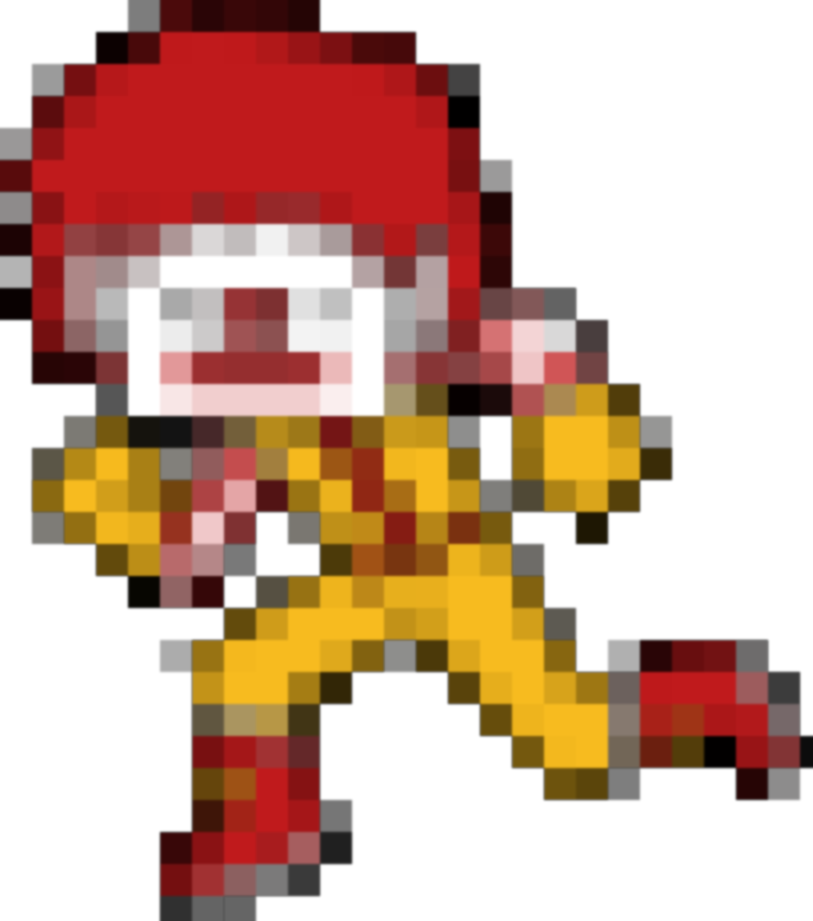
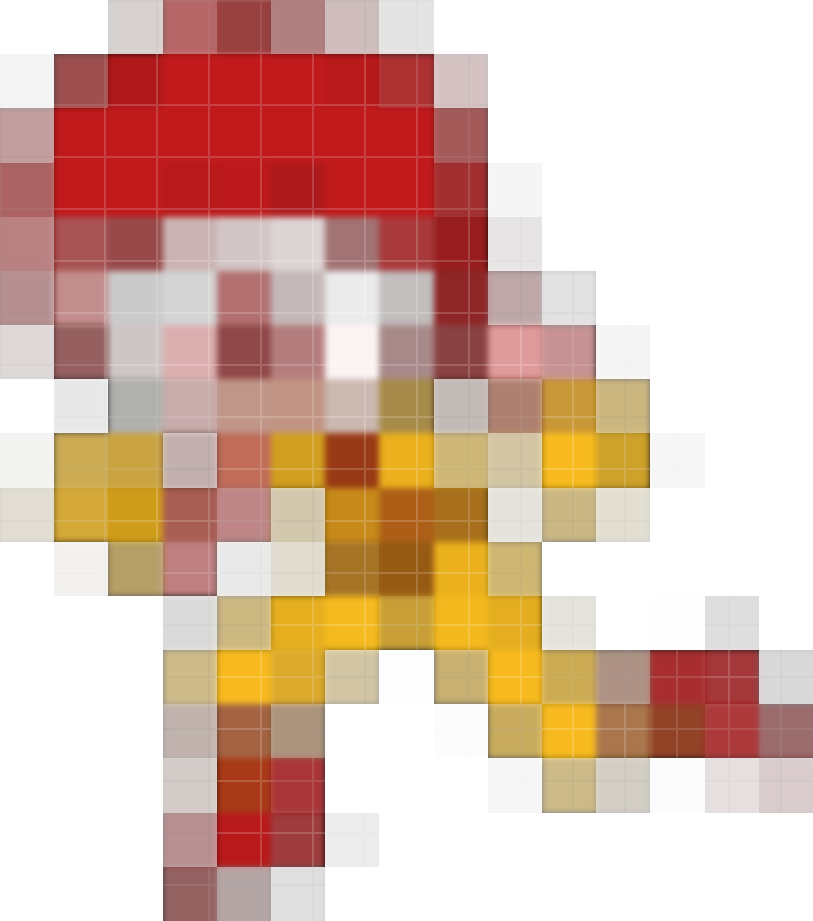
feat(heroes): strengthen mosaic block size to 52x with designer frosted glass tile grid on all 5 pioneer hero artworks

diff --git a/README.md b/README.md
@@ -1,112 +1,135 @@
-# BCM 🛵 (BottleCap Motorcycle) · 原创机车艺术
+# BCM 🛵 (BottleCap Motorcycle) · d8d-BCM-SourceAvailable
 
 > **D&D Studio (广州 D&D 团队) 独立出品 · 准商业级数字艺术与文化 IP 项目**  
 > **© 2023–2026 D&D Team. All Rights Reserved. 版权所有·侵权必究**
 
-[![License: Proprietary](https://img.shields.io/badge/License-Proprietary%20%2F%20All%20Rights%20Reserved-red.svg)](https://github.com/EthanLau1/d8d-BCM-SourceAvailable)
+[![License: Source-Available](https://img.shields.io/badge/License-Source--Available%20%2F%20Non--Commercial-orange.svg)](https://github.com/EthanLau1/d8d-BCM-SourceAvailable)
 [![Status: Pre-Commercial Preview](https://img.shields.io/badge/Status-Pre--Commercial%20Preview-blue.svg)](https://github.com/EthanLau1/d8d-BCM-SourceAvailable)
 [![Art Assets: 101 Original Frames](https://img.shields.io/badge/Art-101%20Original%20Frames-brightgreen.svg)](https://github.com/EthanLau1/d8d-BCM-SourceAvailable)
 [![Digital Collection: 7,700 Pieces](https://img.shields.io/badge/Supply-7%2C700%20Unique%20Pieces-orange.svg)](https://github.com/EthanLau1/d8d-BCM-SourceAvailable)
 [![Release Model: 24h Continuous](https://img.shields.io/badge/Mechanism-24h%20Continuous%20Release-purple.svg)](https://github.com/EthanLau1/d8d-BCM-SourceAvailable)
+[![i18n: British English & 中文](https://img.shields.io/badge/i18n-British%20English%20%7C%20%E7%AE%80%E4%BD%93%E4%B8%AD%E6%96%87-yellow.svg)](https://github.com/EthanLau1/d8d-BCM-SourceAvailable)
 
 ---
 
-## ⚖ 严正版权与准商业项目声明 (Intellectual Property & Commercial Notice)
+## 📖 源码可用性协议说明 (Source-Available License & Terms)
 
-### 1. 准商业项目性质 (Pre-Commercial Status)
-本仓库及展示工程为 **D&D 团队（D&D Team）** 研发与筹划中的**准商业级数字文化 IP 项目公开演示版**。所展示之前端交互、艺术资产结构、稀有度矩阵、技术架构设计等均为阶段性商业演示成果。
+本项目采用 **Source-Available（源码可用 / 源码开放检视）** 模式进行公开展示，**非无限制宽松开源（Non-Permissive Open Source）**。请在查阅、克隆或使用本仓库内容前严格遵守以下授权条款：
 
-### 2. 知识产权与版权独占声明 (Proprietary Rights)
-* **101 个原创车架结构与视觉原稿**：车架轮廓、机械结构、引擎装配、龙头握把、减震悬挂及排气系统，均为 D&D 团队倾力原创设计、制图与数字化绘制的**独家原创美术作品与工业美学资产**。
-* **版权独家归属**：所有车架美术著作权、设计专利及衍生商业权益 **100% 归属 D&D 团队所有**。
-* **严禁侵权**：未经 D&D 团队书面正式授权，任何个人或实体**严禁擅自复制、商业化发行、铸造非官方数字藏品/NFT、二次衍生修改、公开募资，或将本仓库图像资产输入任何商业 AI 模型作为训练集**。
+### 1. 什么是 Source-Available？
+* **公开检视与透明性（Public Transparency）**：本仓库公开所有前端交互逻辑、视觉版式架构、多语言字典以及离屏合成工程，旨在向合作方、策展机构、投资者及 Web3 社区证明项目的原创性与工程完成度；
+* **本地试玩与学术研究允许（Local Trial & Research Allowed）**：允许任何个人克隆本仓库到本地环境运行、查阅、体验交互式改装台及评估项目设计；
+* **严禁未经授权的商业化（Non-Commercial Without Prior Written Consent）**：严禁任何个人或第三方机构在未获 D&D 团队书面授权的情况下，复制本系统用于任何商业营利运营、同质竞争项目包装、二次转售或公开募资。
 
-### 3. 双轨权利划分原则 (Dual-Licensing Boundary)
-为了确保商业合规并推动全球社区文化共创，本项目对作品构成实施严格的双轨权利划分：
-1. **原创车架（版权所有 · All Rights Reserved）**：机车机械骨架，受国际版权法及《中华人民共和国著作权法》严格保护；
-2. **瓶盖元素（CC0 开放 · Public Domain Dedication）**：取自现实中回收饮料瓶盖与罐装符号。D&D 团队主动以 **CC0（放弃派生专有权）** 形式处理，旨在**彻底隔离外部品牌的商业代言误解**，并鼓励全球机车爱好者基于此进行合规二创。
+### 2. 三层权利边界划分 (Three-Tier Rights Framework)
+
+```text
+┌────────────────────────────────────────────────────────────────────────┐
+│                   BCM 权利架构体系 (Three-Tier Architecture)             │
+├────────────────────────────────────────────────────────────────────────┤
+│ 1. 独创机械骨架 (Chassis & Mechanics)                                  │
+│    ▶ 归属：D&D Studio 100% 原创独占 (All Rights Reserved)               │
+│    ▶ 涵盖：101 款原创车架、双管梁结构、避震悬挂、发动机与整车工程美学        │
+│    ▶ 保护：受国际版权法保护，严禁未经授权盗用或用于商业 AI 模型训练       │
+├────────────────────────────────────────────────────────────────────────┤
+│ 2. 7,700 链上机车 NFT 整体 (On-Chain NFTs)                             │
+│    ▶ 协议：CC0 1.0 Universal (Public Domain Dedication)                │
+│    ▶ 规则：官方合约正式部署并释出后，全量 7,700 部作品放弃派生版权主张，   │
+│            社区享有自由商用、改装、衍生品制作与二次创作权利             │
+├────────────────────────────────────────────────────────────────────────┤
+│ 3. 瓶盖与波普艺术拼贴元素 (Discarded BottleCaps)                       │
+│    ▶ 性质：环保艺术致敬与波普废品解构 (Pop Art Fair-Dealing)            │
+│    ▶ 说明：瓶盖商标徽标归属原饮料品牌方所有，BCM 严格声明非商业代言与非赞助│
+└────────────────────────────────────────────────────────────────────────┘
+```
+
+### 3. 未发售期保密工程防泄密机制 (Confidential Silhouette Protection)
+为确保正式发售前 **7,700 款完整链上资产的稀缺性、惊喜感及防批量枚举盗用**：
+* 本仓库展示的 101 款机车、6 款车库试配车身以及 120 位环保英雄公仔，均经过**专属实体大颗粒像素马赛克（Solid Block-based Frosted Mosaic）**保密工艺处理；
+* 前端页面与海报导出仅提供体量与色彩姿态预览，原始高精度图纸与高清未打码艺术原件由团队内部离线冷存储保存。
 
 ---
 
-## 🛵 项目全景与艺术主张 (Project Overview & Narrative)
+## 🛵 项目全景与艺术主张 (Project Narrative)
 
-### 1. 源起：垃圾场的震撼与两位年轻人的环保执念
-青年设计师 Jay 在参观垃圾处理场时，目睹堆积如山被随意丢弃的塑料瓶盖——那些来自每一个人日常消费的废品静静等待被填埋或焚烧。他思考：“如果这些瓶盖能被重新利用，变成帅气酷炫的艺术品呢？”
-随后，他遇到了拥有丰富科技产品管理经验的资深产品人 Ethan。两人一拍即合：“把环保和电单车原创设计结合在一起，做真正有意义的产品。”团队主导创作了 101 部风格迥异的原创电单车车身，并首创将 109 款回收瓶盖化为机车的轮子，赋予每一部车独一无二的生命。
+### 1. 源起：垃圾场的震撼与环保执念
+青年设计师 Jay 在参观大型废弃物处理场时，目睹堆积如山被随意丢弃的塑料瓶盖——那些来自每一个人日常消费的废品静静等待被填埋或焚烧。他思考：“如果这些瓶盖能被重新利用，变成帅气酷炫的机车艺术品呢？”  
+随后，他遇到了拥有丰富科技管理经验的产品人 Ethan。两人一拍即合：**“把环保和电单车原创设计结合在一起，做真正有意义的文化产品。”** 团队倾力主导创作了 101 部风格迥异的原创电单车身，并首创将 109 款回收瓶盖化为机车的轮子，赋予废弃物第二重生命。
 
 ### 2. 数字升华：101 原创车架 × 回收瓶盖 = 7,700 独特藏品
 团队将 101 个原创车架进行高精度数字图层解构，配以现实回收饮料罐/瓶盖元素，通过美学矩阵与平衡算法，组合出 **7,700 辆独一无二的数字机车**。
 
-### 3. 载具与英雄：从实体手作黏土到链上数字像素
-机车是载具，HERO 属于社区。在实体工坊中，孩子们围坐桌前用彩色黏土捏出的各种生动机车骑手与环保英雄雏形，被团队进一步数字化提炼为拥有独特环保超能力的奔跑姿态先锋，形成即将启动的全新 CC0 链上先锋英雄系列。
+### 3. 载具与英雄：从实体工坊黏土到链上数字像素
+机车是载具，HERO 属于社区。在线下实体工坊中，孩子们在桌前用彩色黏土捏出的各种生动机车骑手与环保英雄雏形，被团队进一步提炼为拥有独特环保超能力的奔跑姿态先锋，形成即将同步启动的全新 CC0 链上先锋英雄系列。
 
 ---
 
 ## 💻 网页展示 Demo 与核心功能 (Interactive Web Demo)
 
-本项目在根目录下内置了一套**纯静态、免外部依赖、开箱即用**的交互式网页展示系统，可供合作方、评审专家及投资人直接体验。
+本项目在根目录下内置了一套**纯静态、免外部依赖、零框架捆绑、开箱即用**的交互式网页展示系统。
 
 ### 🚀 极简运行指引 (Quickstart)
 
-#### 方式一：直接双击 (无需环境)
-* 直接双击根目录下的 **`index.html`**，即可在任意浏览器中完整呈现全部版块与动画。
+#### 方式一：直接双击 (无需任何运行环境)
+* 直接双击根目录下的 **`index.html`**，即可在任意现代浏览器中完整呈现全部版块与动画。
 
-#### 方式二：一键启动本地服务器 (推荐最佳体验)
-* **macOS 用户**：双击运行 **`start_demo.command`**（自动启动轻量服务并唤起默认浏览器访问 `http://localhost:8888`）；
+#### 方式二：一键启动本地轻量服务 (推荐最佳体验)
+* **macOS 用户**：双击运行 **`start_demo.command`**（自动启动服务并唤起浏览器访问 `http://localhost:8888`）；
 * **Windows 用户**：双击运行 **`start_demo.bat`**；
 * **命令行开发者**：
   ```bash
-  cd BCM-Web-Demo
+  git clone https://github.com/EthanLau1/d8d-BCM-SourceAvailable.git
+  cd d8d-BCM-SourceAvailable
   python3 -m http.server 8888
-  # 打开浏览器访问: http://localhost:8888
+  # 浏览器访问: http://localhost:8888
   ```
 
 ---
 
-### ⭐ 核心功能模块全览 (Demo Flow)
+### ⭐ 核心功能模块全览 (Demo Architecture)
 
 ```text
-网页展示架构 (Demo Flow)
-├── 0. 首屏 (Hero)            : 24h 持续释出机制 / 101 车架 / 7,700 数字机车
-├── 1. 概念与初心 (Concept)    : 废品艺术重生 / 严格恪守 5R 零废弃 / 两代人原创执念
-├── 2. 数字藏品 (NFT Collection): 101 原创车架 (团队版权) + 瓶盖元素 (CC0) 双轨拆解
-│                               展示经典标杆车款：绝版酷儿 #0001、可口可乐 #1161、百事 #5227、七喜 #5765
-├── 3. 车库工坊 (Playground)   : 核心交互台（中立工程原型轮组 + 6 款精选车架实时换装与 HTML5 海报导出）
-├── 4. 每日一 mint (Daily Mint): 24h 智能合约上架机制 / 无门槛公开竞拍 / 金库资助实体工坊
+网页展示架构 (Interactive Demo Flow)
+├── 0. 首屏 (Hero)            : 24h 持续释出机制 / 101 原创车架 / 7,700 数字机车 / EN·中文 一键切换
+├── 1. 概念与初心 (Concept)    : 废品艺术重生 / 严格恪守 5R 零废弃理念 / 实体工坊纪实
+├── 2. 数字藏品 (NFT Collection): 101 原创车架 (团队独家版权) + 瓶盖元素 (CC0 开放) 双轨权利拆解
+│                               标杆车款展示：绝版酷儿 #0001、可口可乐 #1161、百事 #5227、七喜 #5765
+├── 3. 车库试玩 (Playground)   : 核心交互台（中立工程原型轮组 + 6 款精选车架大颗粒马赛克换装与 HTML5 海报导出）
+├── 4. 每日一 mint (Daily Mint): 24h 智能合约上架机制 / 无门槛公开竞拍 / 收益全量资助实体环保工坊
 ├── 5. 社区创作 (Community)    : 
 │   ├── 🎮 BCM HERO 像素先锋 (即将登场 CC0 系列):
-│   │   ├── 📍 线下工坊实录：孩子们在工坊捏黏土、草图构思到数字跑者的真实共创原点
-│   │   ├── 🧬 实体手作到数字像素：从实体黏土形态提炼到奔跑动作规范的进化图谱
-│   │   └── 🏃 先锋 5 位环保英雄矩阵：黄金小丑(包装再造)、佩佩(Meme)、顽强小强、极地企鹅、吃豆先锋
+│   │   ├── 📍 线下工坊实录：孩子们捏黏土、草图构思到数字跑者的真实共创原点
+│   │   ├── 🧬 实体手作到数字像素：从工坊黏土提炼到奔跑动作规范的进化图谱 (hero_evolution)
+│   │   └── 🏃 首批 5 位环保英雄：黄金小丑(包装重构)、佩佩(Meme)、顽强小强、极地企鹅、吃豆先锋
 │   └── 📸 线下工坊与真实足迹 (Field Notes):
-│       └── 商超寻盖、#287 创意园真后视镜展陈、亚洲汽水老铝盖挂板、实体微缩模型打磨
-└── 6. 常见问答 (FAQ) & 邮件订阅: Web3 极简科普、Gas 费透明说明与商务联络
+│       └── 商超寻盖、#287 创意园真实后视镜展陈、亚洲汽水老铝盖挂板、实体微缩模型打磨
+├── 6. 全景总谱 (Master Spread) : 101 部原创机车（左）× 120 位环保英雄（右）超宽合并总谱大图
+└── 7. 常见问答 (FAQ) & 订阅    : Web3 极简科普、Gas 费透明说明与商务联络渠道
 ```
 
 ---
 
 ### 🎨 设计与工程亮点 (Design & Engineering Highlights)
 
-1. **Neo-Brutalism Zine 装帧美学**：
-   - 采用 2px 墨黑实线边框（`var(--ink)`）、4px/6px 纯黑实体投影、白纸衬底与明黄主强调色，营造硬核工业手作质感。
+1. **Neo-Brutalism Zine 手作装帧美学**：
+   - 采用 2px 墨黑实线边框（`var(--ink)`）、4px/6px 纯黑实体投影、复古纸张底衬与明黄工业强调色，呈现浓郁的机车手作车库质感。
 2. **沉浸式全屏 Lightbox 模态灯箱**：
-   - 工坊实录大图、进化图谱及 5 位英雄立绘均支持点击弹窗全屏预览，支持按 `Esc` 退出与背景点击收起。
-3. **原生纯前端双语引擎 (i18n)**：
-   - 无任何前端框架依赖，内置中英双语（British English / 简体中文）轻量化字典，支持一键切换并自动持久化存储。
-4. **车库试玩工坊 (Playground)**：
-   - **中立原型工程轮组（`sample.png`）**：采用黑胶轮胎与机械银灰辐条，不泄露正式品牌瓶盖，保障藏品神秘度；
-   - **纯前端海报合成引擎**：基于 HTML5 离屏 Canvas，毫秒级合成背景、轮组、车身涂装与专属水印，一键导出高清 PNG。
+   - 工坊实录大图、进化图谱、5 位英雄立绘以及 101×120 全景合并画卷均支持点击弹窗全屏预览，支持按 `Esc` 退出与背景点击收起。
+3. **原生纯前端双语系统 (i18n Engine)**：
+   - 无任何 React/Vue 等框架依赖，内置原生英式英语文化语境（British English）与简体中文，支持右上角一键热切换并自动持久化存储。
+4. **车库试配与海报导出引擎 (HTML5 Canvas Engine)**：
+   - 基于 HTML5 离屏 Canvas，毫秒级合成底盘地面、工程原型轮组、保密车身涂装与专属概念工程水印，一键下载高保真 PNG 海报。
 
 ---
 
-## 🗺 商业化推进与落地计划 (Commercial Roadmap)
+## 🗺 商业化推进路线图 (Commercial Roadmap)
 
 | 阶段 (Phases) | 核心目标 (Milestones) | 关键交付物 (Deliverables) | 推进周期 |
 | :--- | :--- | :--- | :--- |
-| **Phase 1：合约安全与去中心化存储** | 编写 ERC-721 每日发售合约，集成哈希承诺（Commit-Reveal）机制；部署 Arweave / IPFS 永久存储。 | 经专业第三方安全审计的智能合约、永久去中心化元数据。 | 3 - 4 周 |
-| **Phase 2：Season 0 集结与发售启动** | 启动 Season 0 全球 101 位创世骑手资格认证；正式开启 24 小时每日释出与拍卖。 | 官方 Mint 页面、每日拍卖与结算自动化流水线。 | 3 - 4 周 |
+| **Phase 1：合约安全与去中心化存储** | 编写 ERC-721 每日发售合约，集成哈希承诺（Commit-Reveal）机制；部署 Arweave / IPFS 永久存储。 | 经第三方专业安全审计的智能合约、永久去中心化元数据。 | 3 - 4 周 |
+| **Phase 2：Season 0 集结与发售启动** | 启动 Season 0 全球 101 位创世骑手资格认证；正式开启 24 小时每日释出与竞拍。 | 官方 Mint 页面、每日拍卖与结算自动化流水线。 | 3 - 4 周 |
 | **Phase 3：正式链上车库 DApp 联动** | 将静态 Playground 升级为正式 Web3 DApp，每日拍卖揭晓的新部件同步注入社区 DIY 库。 | 官方互动式链上工坊、社区共创作品评选系统。 | 4 周 |
-| **Phase 4：生态衍生与 GameFi (Eco Dash)** | 基于 Telegram Mini-App / H5 推出 2D 物理横版运载极简轻游戏，闭环机车与饮品物理博弈。 | Eco Dash 游戏 MVP、环保碳积分机制原型。 | 持续迭代 |
+| **Phase 4：生态衍生与轻量 GameFi** | 基于 Telegram Mini-App / H5 推出 2D 物理横版运载极简轻游戏，闭环机车与饮品物理博弈。 | Eco Dash 游戏 MVP、环保碳积分机制原型。 | 持续迭代 |
 
 ---
 
@@ -114,15 +137,16 @@
 
 ```text
 EthanLau1/d8d-BCM-SourceAvailable/
-├── README.md               # 本主文档（版权声明、功能全览与商业路线图）
+├── README.md               # 本主文档（Source-Available 授权协议、项目全景与路线图）
 ├── index.html              # 纯静态独立主页面（中英双语、车库试玩、Hero 社区矩阵与灯箱）
 ├── start_demo.command      # macOS 1-点击即启动轻量服务脚本 (端口 8888)
 ├── start_demo.bat          # Windows 1-点击即启动轻量服务脚本
-├── .gitignore              # 运行缓存与忽略配置
-└── images/                 # 静态展示与高保真资产目录
+├── .gitignore              # 运行缓存与本地备份忽略配置
+└── images/                 # 静态展示与保密马赛克资产目录
     ├── 1.png ~ 5765.png    # NFT 展厅精选机车切片（酷儿、可口可乐、百事、七喜等）
-    ├── playground/         # 车库试玩素材（中立轮组 sample、背景及 6 款精选车架）
-    ├── heroes/             # 社区 HERO 资产（工坊实录、进化图谱、5位英雄立绘）
+    ├── playground/         # 车库试玩素材（中立轮组、背景、6款保密马赛克精选车架及缩略图）
+    ├── heroes/             # 社区 HERO 资产（工坊实录、进化图谱、5位英雄打码立绘）
+    ├── spread/             # 全景总谱（101 机车 × 120 英雄左右合并超宽高清画卷 WebP/JPG）
     └── footprints/         # 真实足迹与线下展陈实拍相片
 ```
 
@@ -131,7 +155,7 @@ EthanLau1/d8d-BCM-SourceAvailable/
 ## 🤝 商业合作、展览与授权咨询 (Business Inquiries)
 
 D&D 团队欢迎以下方向的商业合作与学术交流：
-* **实体艺术展览与策展**：101 部原创机车艺术巡展、空间机械艺术装置与瓶盖手作工坊合作；
+* **实体艺术展览与策展**：101 部原创机车艺术巡展、空间机械装置与瓶盖手作工坊落地；
 * **IP 商业授权与跨界联名**：潮流服饰、机车周边、骑行装备、环保衍生品开发；
 * **Web3 生态与战略投资**：全球化发行合作、技术安全审计、国库治理与生态基金支持。
 
